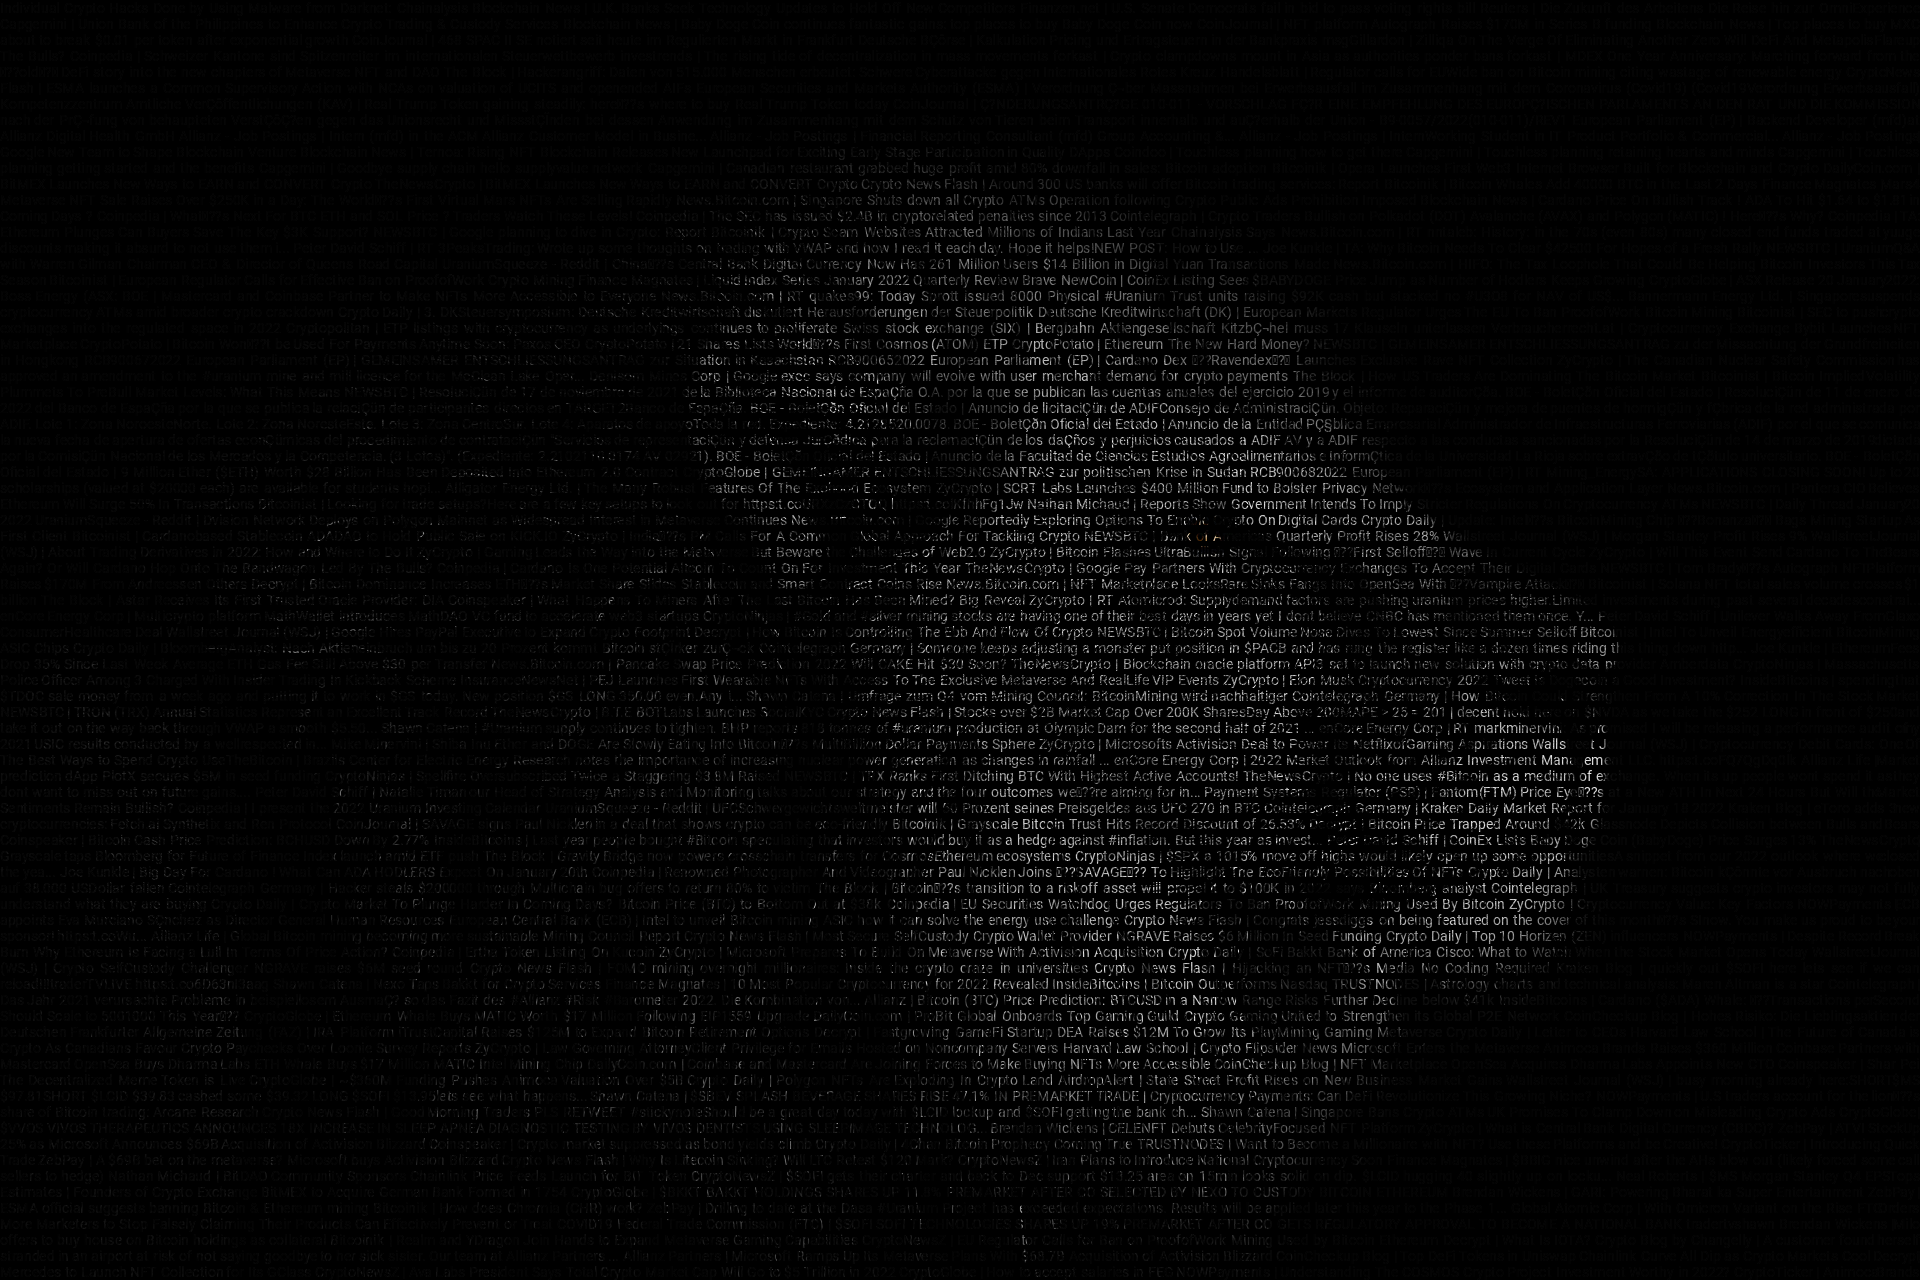
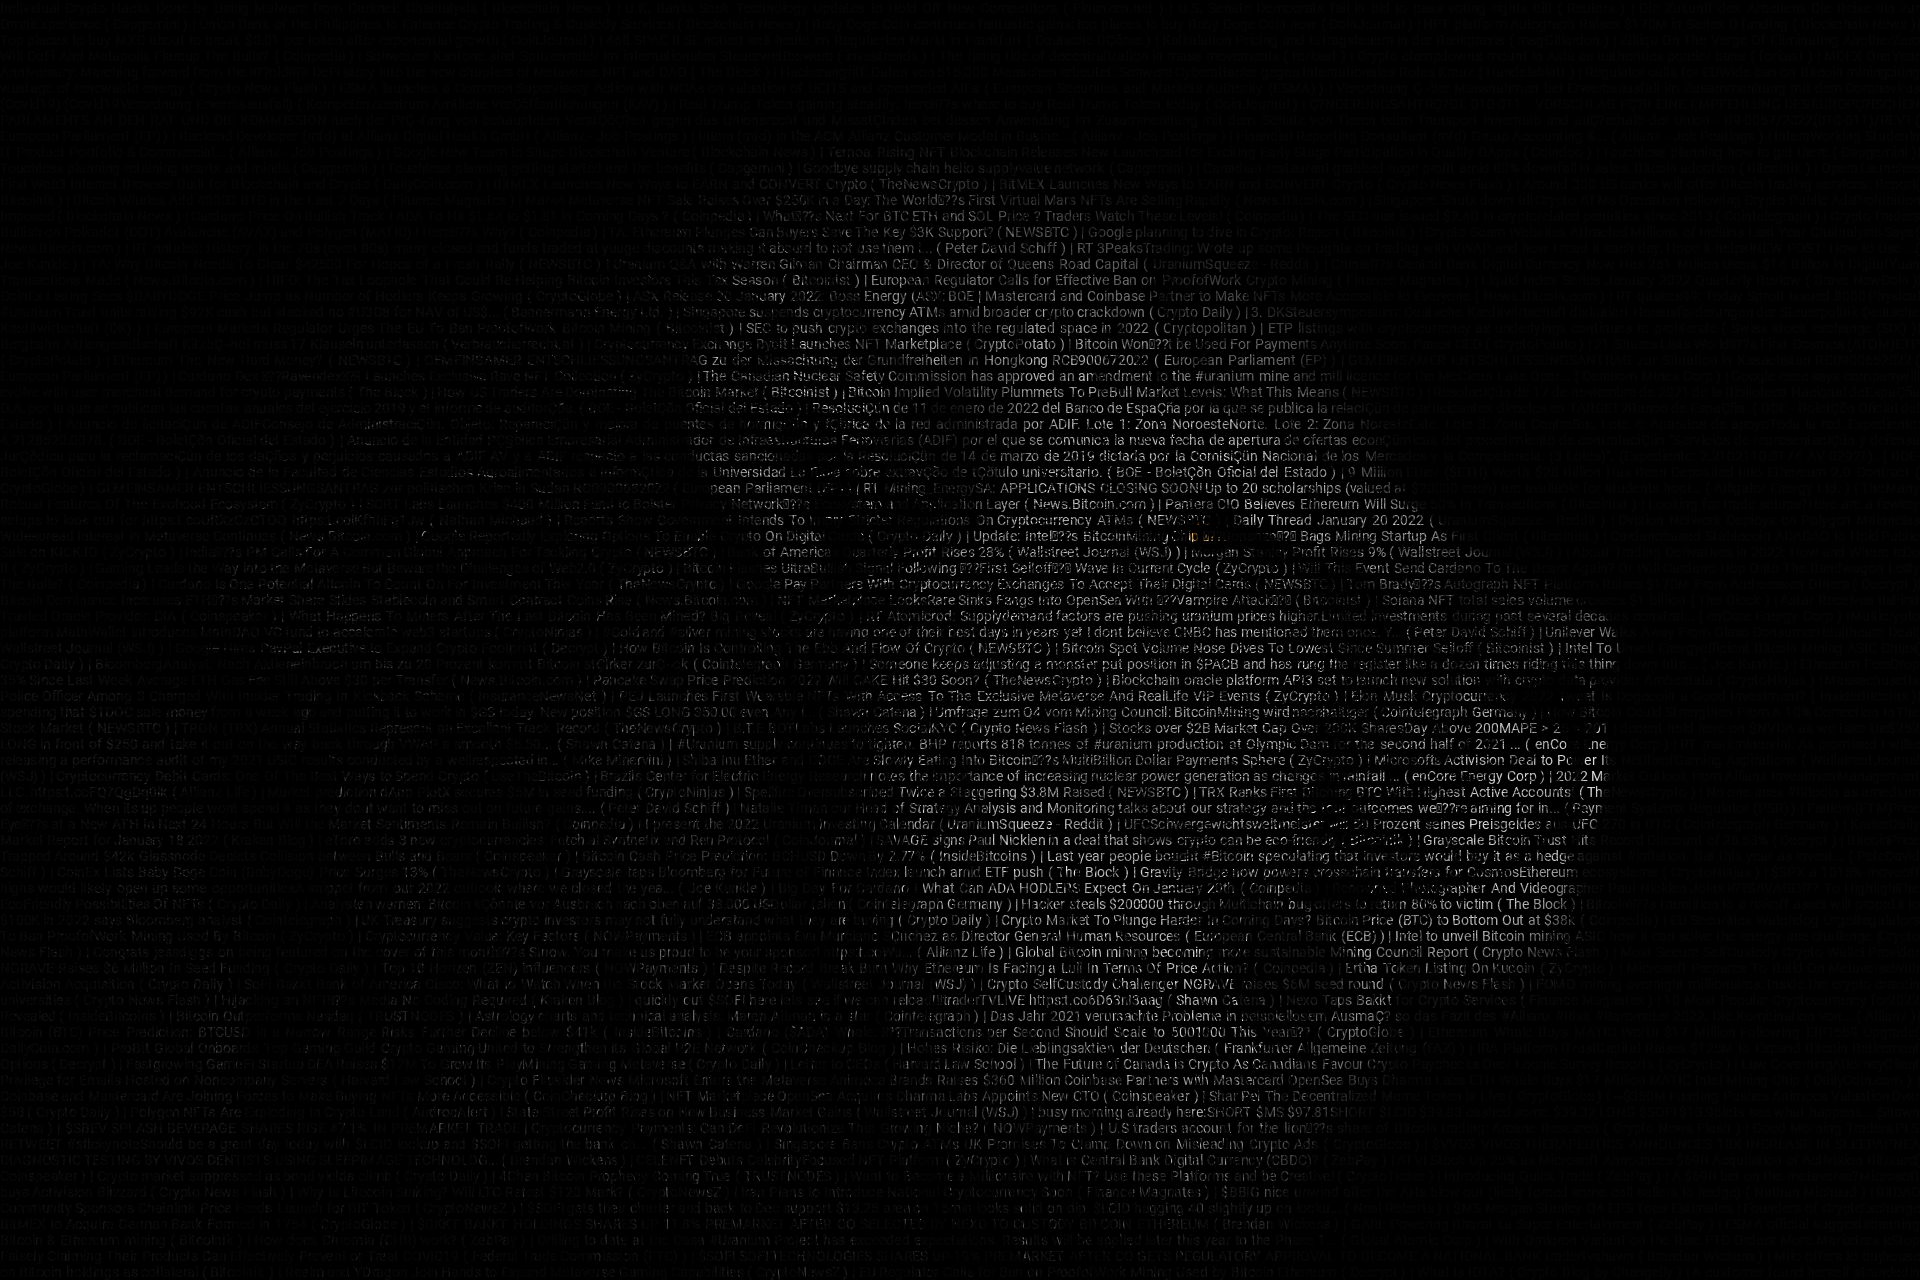
Added open/close char options for second column in csv file

Changed region(s): [[0.3438, 0.125, 0.8438, 0.9375], [0.3438, 0.5, 0.4062, 0.5625], [0.3125, 0.5938, 0.375, 0.6562]]

diff --git a/app.py b/app.py
@@ -26,6 +26,9 @@ def create_config(path:str):
         'csv_columns': 2,
         '; Use this str separator between row content from csv file': None,
         'separator' : '|',
+        '; Open and close chars will be puted around content of second csv column': None,
+        'source_column_open_char': '(',
+        'source_column_close_char': ')',
         '; Append this suffix to resulting png file before extension': None,
         'file_suffix':'_with_text',
         '; Comma separated list of input images paths, can be quoted with \' or "': None,
@@ -69,12 +72,18 @@ if __name__ == "__main__":
         delimeter = config.get('csv_delimeter')
         column_count = int(config.get('csv_columns'))
         separator = config.get('separator', '')
+        open_char = config.get('source_column_open_char', '')
+        close_char = config.get('source_column_close_char', '')
         try:
             with open(text_input, encoding=text_encoding) as csv_file:
                 reader = csv.reader(csv_file, delimiter=delimeter )
                 for row in reader:
                     for i in range(column_count):
-                        text += row[i] + ' '
+                        if len(row[i].strip()) > 0:
+                            if i == 1:
+                                text += open_char + ' ' + row[i] + ' ' + close_char +' '
+                            else:
+                                text += row[i] + ' '
                     text += separator + ' '
         # check for broken files, WARNING: please provide good files
         except UnicodeDecodeError:
@@ -83,7 +92,11 @@ if __name__ == "__main__":
                 reader = csv.reader(csv_file, delimiter=delimeter )
                 for row in reader:
                     for i in range(column_count):
-                        text += row[i] + ' '
+                        if len(row[i].strip()) > 0:
+                            if i == 1:
+                                text += open_char + ' ' + row[i] + ' ' + close_char +' '
+                            else:
+                                text += row[i] + ' '
                     text += separator + ' '
     else:
         print("Unknown text_input format, only *.txt and *.csv supported")
